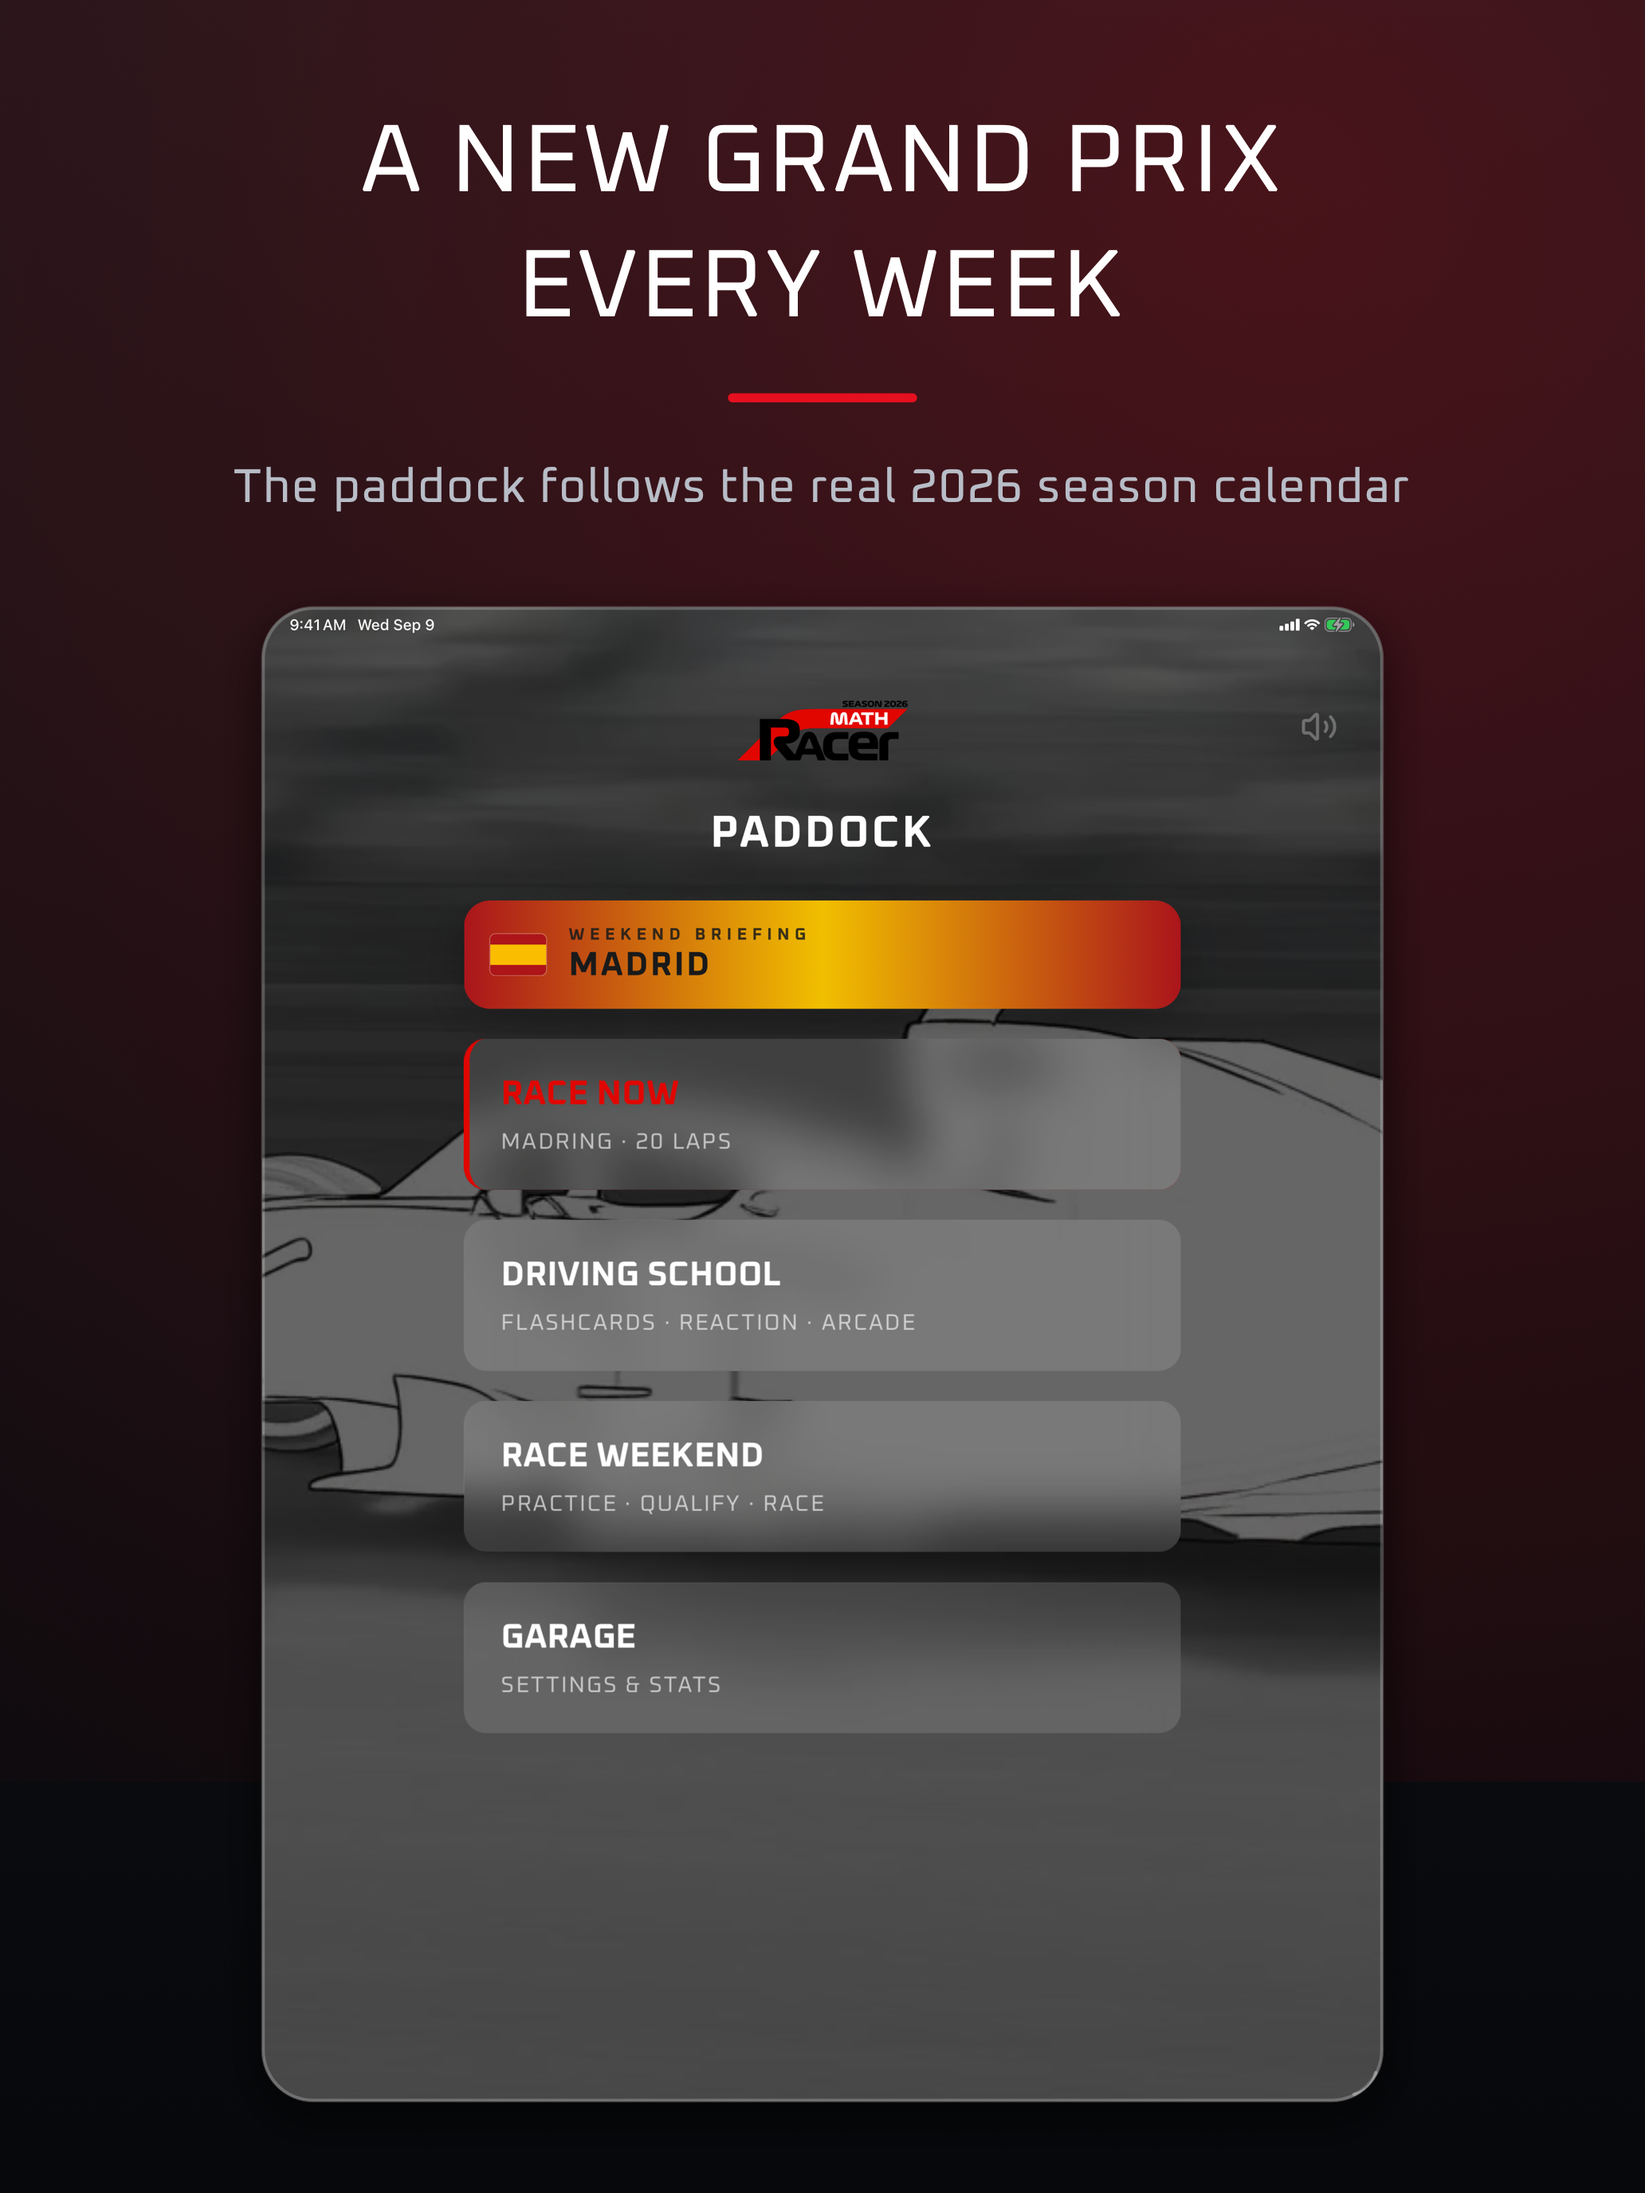
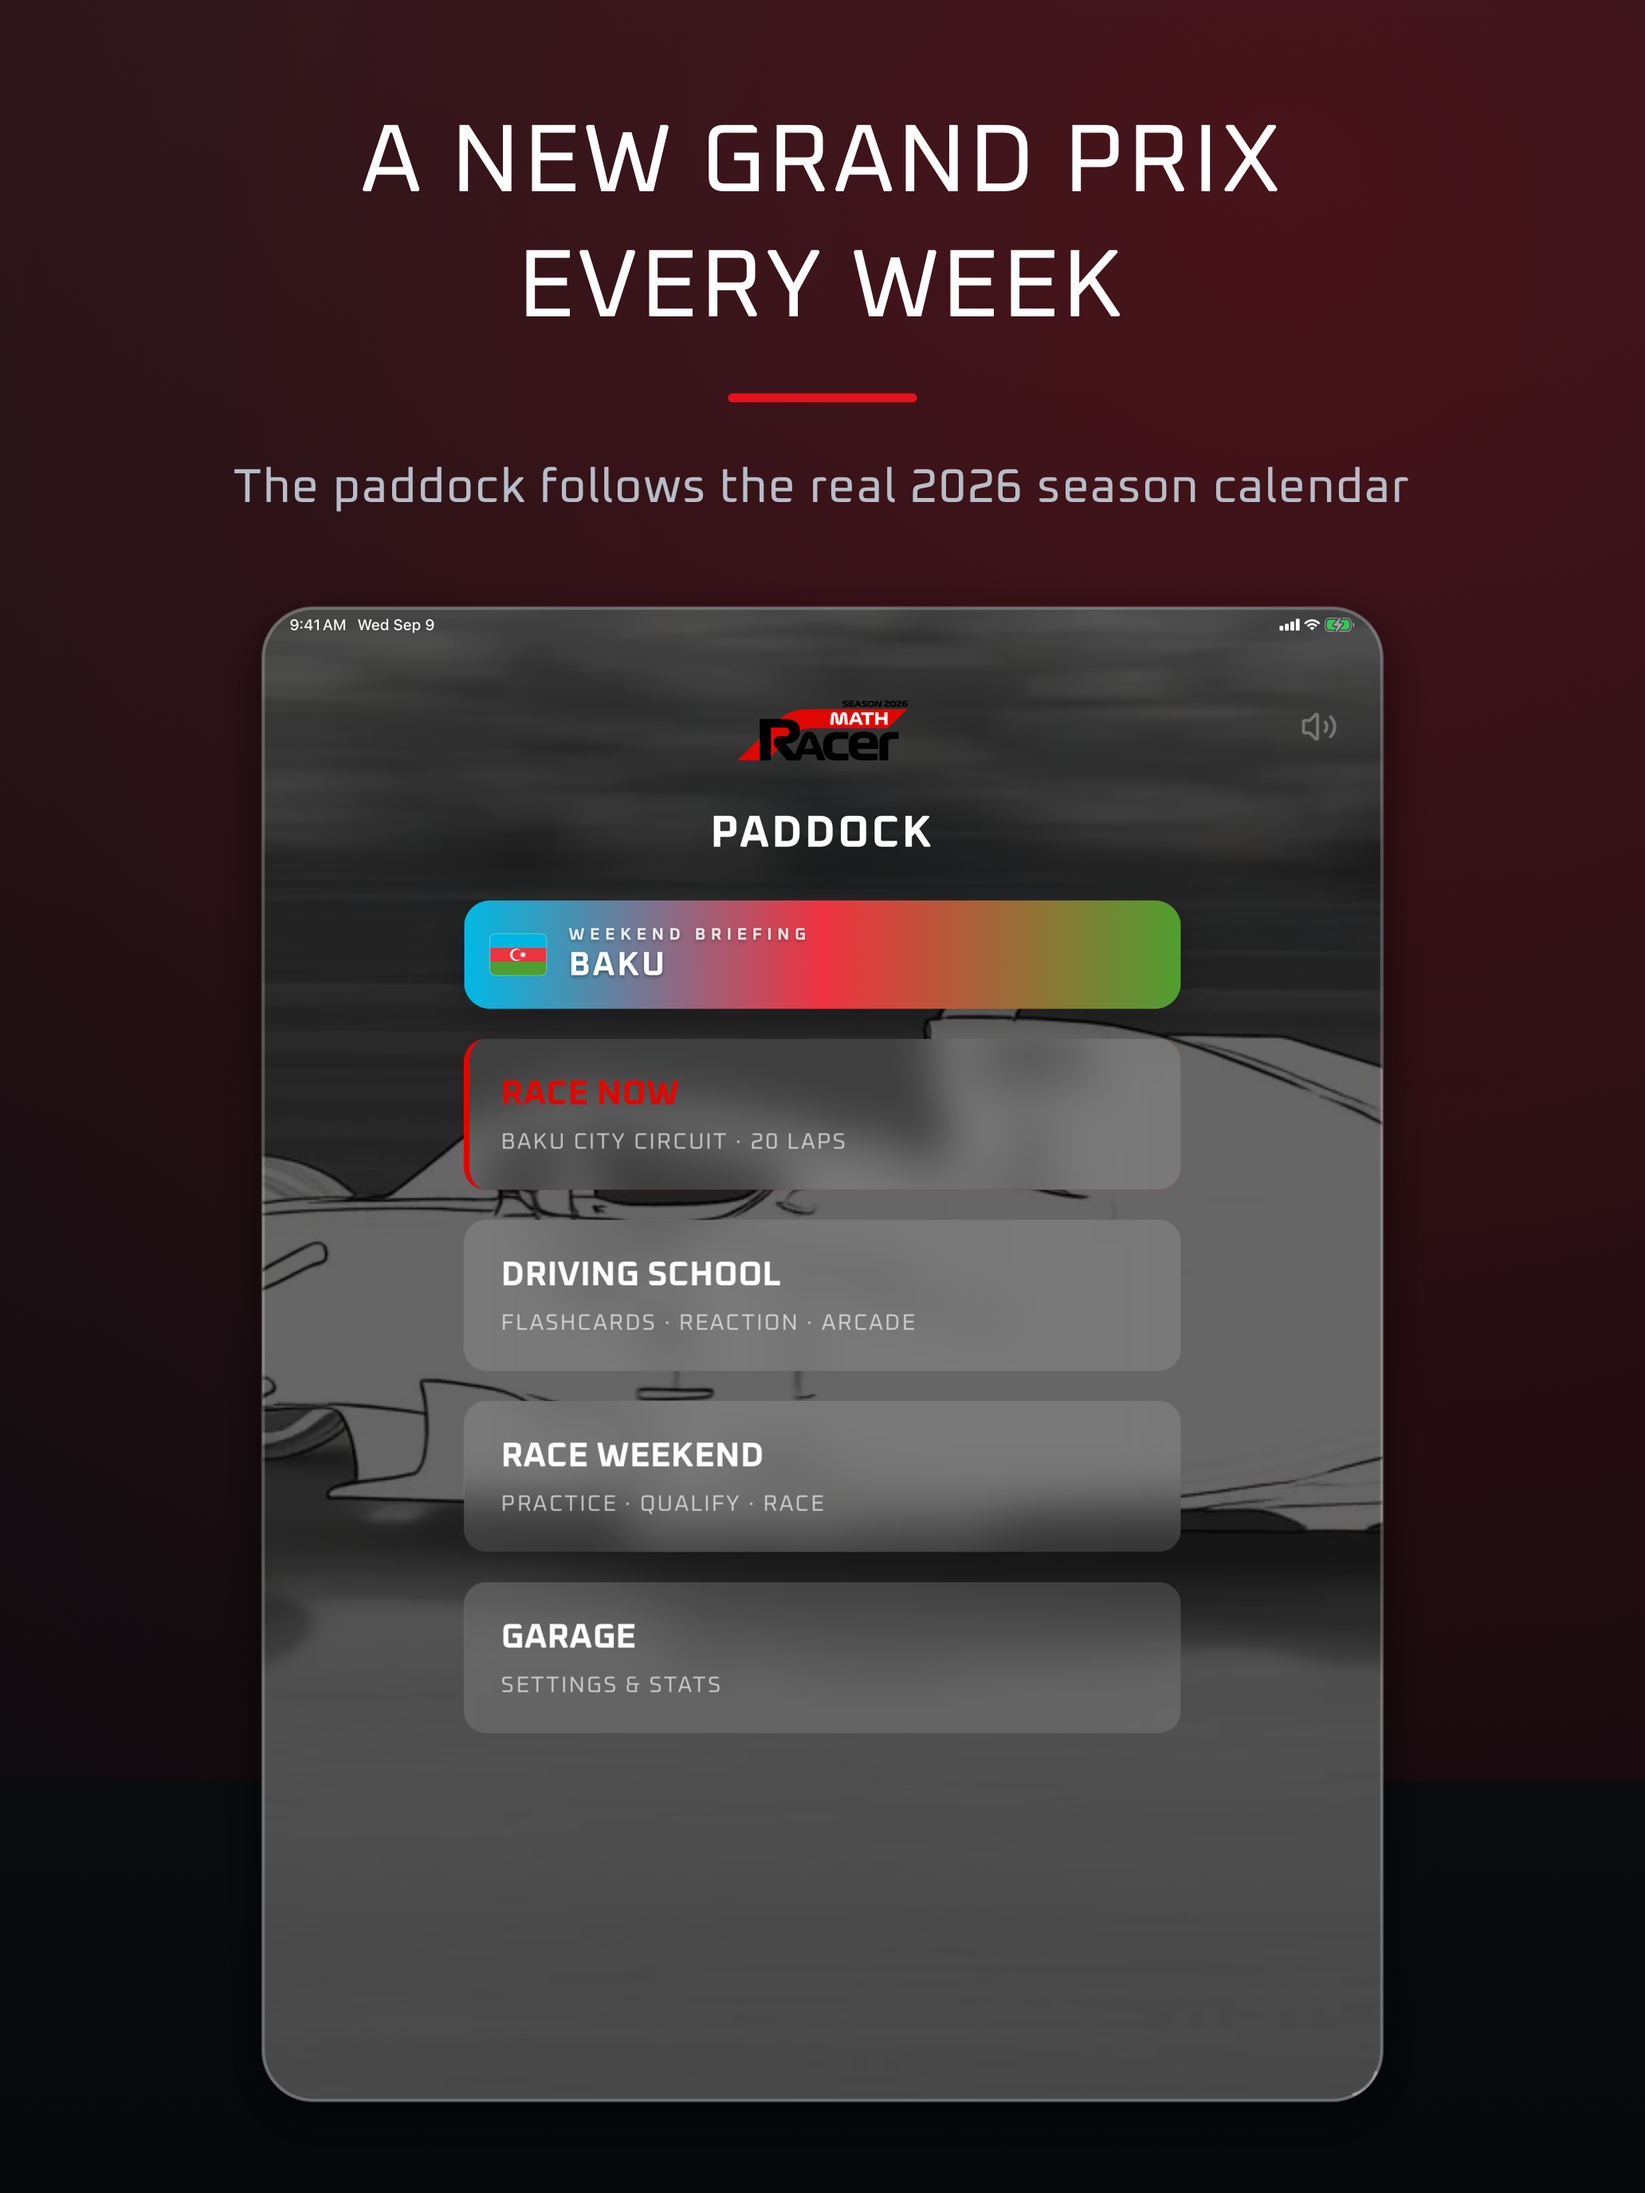
Retake the App Store cards for Baku and the Superlicence badge
The cards were captured on Round 14 / Madrid, before the Superlicence
stopped locking the Grand Prix.

- 03 Grand Prix and 04 paddock (iPhone and iPad) and the iPad 01 race
  screen showed Madrid; they now show Round 15 / Baku.
- 07 Superlicence showed the old splash ("The Grand Prix weekend is
  open", "Go to Grand Prix") under a caption promising that finishing
  Driving School opens the weekend. It now shows the new splash, with
  the caption "Finish Driving School and it joins your trophy cabinet".
  The iPad 07 is portrait now.
- 05 Driving School showed the Reaction Test target as 0.33s; it has
  been 0.40s since 55b0359.

The README records every caption and the capture quirks: separate
status bar override calls, --mask=black, reaching the splash through
localStorage, and rotating the iPad from the simulator panel.

diff --git a/app_store/README.md b/app_store/README.md
@@ -4,22 +4,60 @@ Captioned cards built from real simulator screenshots.
 
 | Folder | Canvas | Device captured |
 |---|---|---|
-| `iphone_6.9/` | 1242 × 2688 | iPhone 17 Pro Max simulator (captured at 1320 × 2868, rendered to the 6.5" canvas) |
-| `ipad_13/` | 2064 × 2752 portrait; `01_race.png` and `07_superlicence.png` are 2752 × 2064 landscape (Race Weekend runs landscape on iPad; the splash was captured in landscape) | iPad Pro 13-inch (M5) simulator |
+| `iphone_6.9/` | 1242 × 2688 | iPhone 17 Pro Max simulator, iOS 26.5 (captured at 1320 × 2868, rendered to the 6.5" canvas) |
+| `ipad_13/` | 2064 × 2752 portrait; `01_race.png` is 2752 × 2064 landscape (Race Weekend runs landscape on iPad) | iPad Pro 13-inch (M5) simulator, iOS 26.5 |
 
 Both sizes are ones App Store Connect accepts for the 6.9" iPhone and 13" iPad
 slots. Upload the files in numeric order — the first three are the ones most
 people see on the product page.
 
+## Cards
+
+| File | Title | Subtitle |
+|---|---|---|
+| `01_race` | Answer fast. Gain sectors. | Adaptive questions that scale from Karting to F1 |
+| `02_lane_racer` | Race the instructor, lane by lane | A 3D chase-cam sprint where the right lane is the right answer |
+| `03_grand_prix` | Practice. Qualify. Race. | A full Grand Prix weekend on one circuit |
+| `04_paddock` | A new Grand Prix every week | The paddock follows the real 2026 season calendar |
+| `05_driving_school` | Earn your Superlicence | Flashcards, reaction lights and lane racing |
+| `06_strategy` | The whole reference, in your garage | Times tables and number facts whenever you need them |
+| `07_superlicence` | Superlicence granted. | Finish Driving School and it joins your trophy cabinet |
+
+`03`, `04` and the iPad `01` (its header chip) show the current Grand Prix. They
+were last captured on Round 15 / Baku. `05` shows the Reaction Test target
+(`REACTION_LICENCE_MS`, 0.40s), so retake it if that changes.
+
 ## Regenerating
 
-1. Capture a screen: boot the simulator, set a clean status bar with
-   `xcrun simctl status_bar <udid> override --time "9:41" --batteryState charged
-   --batteryLevel 100 --cellularBars 4 --wifiBars 3`, then
-   `xcrun simctl io <udid> screenshot shot.png`.
+1. Capture a screen: boot the simulator and set a clean status bar in **two**
+   calls; combined with the other flags, `--time` shows the wrong weekday on iPad:
+   `xcrun simctl status_bar <udid> override --batteryState charged --batteryLevel 100 --cellularBars 4 --wifiBars 3`,
+   then `xcrun simctl status_bar <udid> override --time "2020-09-09T13:41:00.000Z"`
+   (iPhone shows 9:41; iPad shows "9:41 AM Wed Sep 9" like the rest of the set —
+   the fractional seconds are required). Then
+   `xcrun simctl io <udid> screenshot --mask=black shot.png` (`--mask=black`
+   draws the iPhone's Dynamic Island).
 2. Build the compositor once: `swiftc -O tools/MakeCard.swift -o makecard`.
 3. Make a card:
    `./makecard <canvasW> <canvasH> shot.png "Title" "Subtitle" <cornerRatio> out.png`
    Corner ratio is 0.115 for iPhone and 0.045 for iPad.
 
 Captions use Oxanium, the same font as the app.
+
+### Tricky screens
+
+- **Superlicence splash (`07`)** only shows for a player who has just graduated.
+  Terminate the app, then insert into the WebKit localStorage database under the
+  app's data container (`xcrun simctl get_app_container <udid> live.mathracer.app data`,
+  then `Library/WebKit/**/LocalStorage/localstorage.sqlite3`, table `ItemTable`,
+  values are UTF-16LE blobs): `drivingSchoolHighestCleared` = `10`,
+  `reactionBestMs` = `350`, `laneRacerP1Win` = `1`, `superlicenceCelebrated` = `0`.
+  Relaunch, take a burst of screenshots, and pick a frame just after the confetti
+  peaks so the text is clear.
+- **iPad landscape (`01`)**: rotate the iPad from the Claude simulator panel.
+  Simulator.app isn't installed here, and on iPadOS 26 an app's own orientation
+  lock turns into a floating window instead of a rotation. Panel taps stay in
+  portrait coordinates after rotating: `x = landscapeY`, `y = 1376 − landscapeX`
+  (points), for the rotation used on 2026-09-21.
+- **App opens in a window** on the iPad (window controls top-left, wallpaper
+  around it): tap the controls, then the green button, and it stays full screen.
